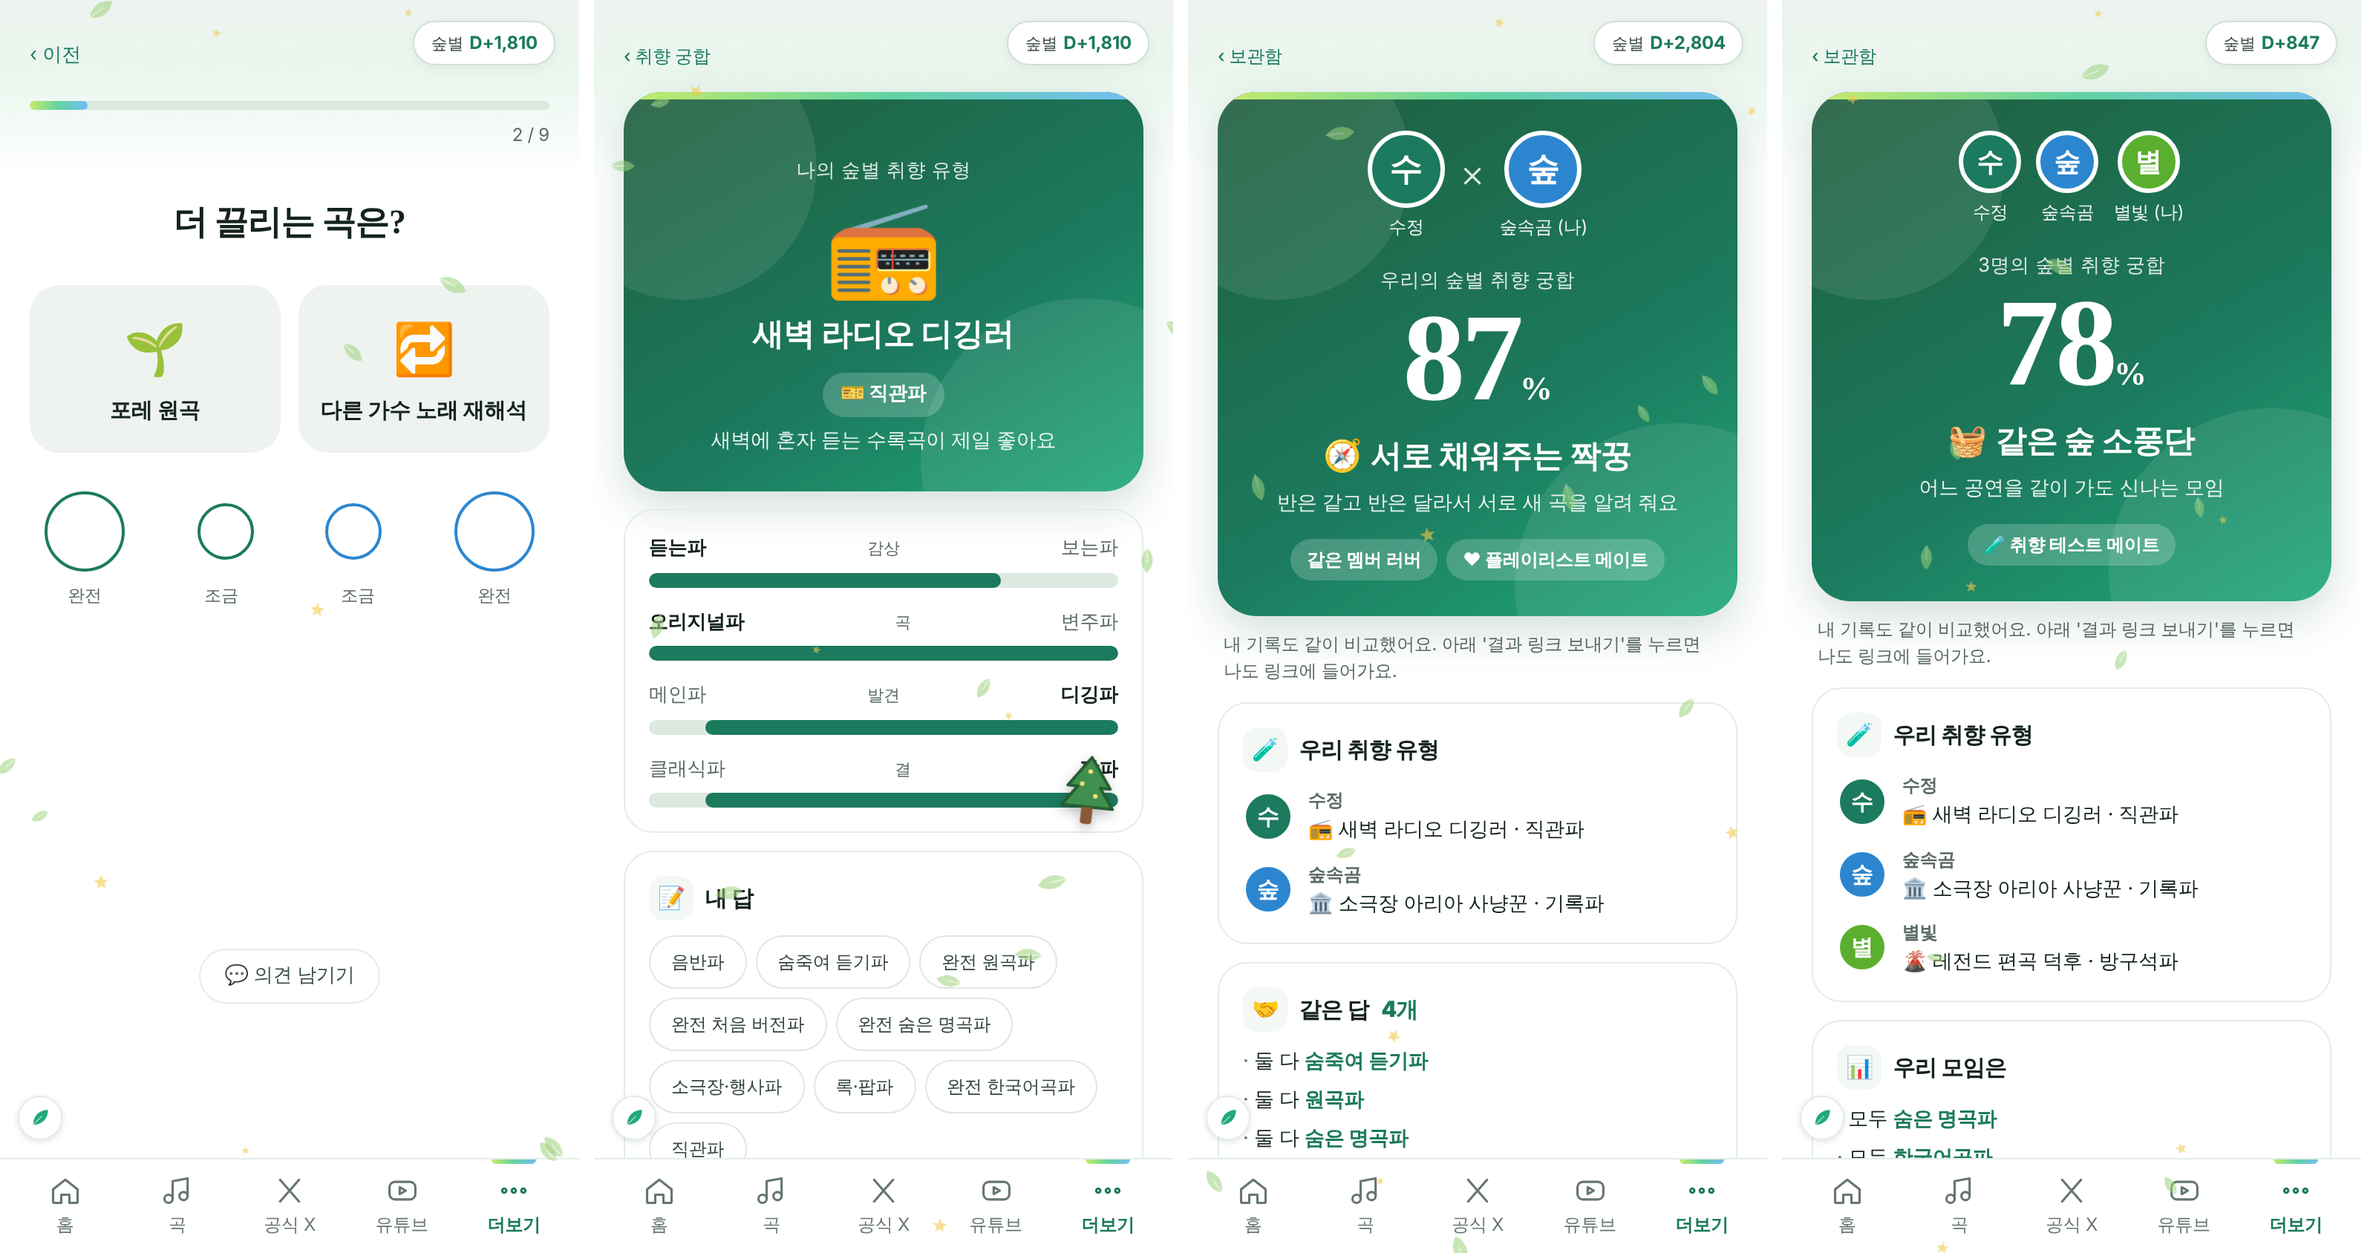
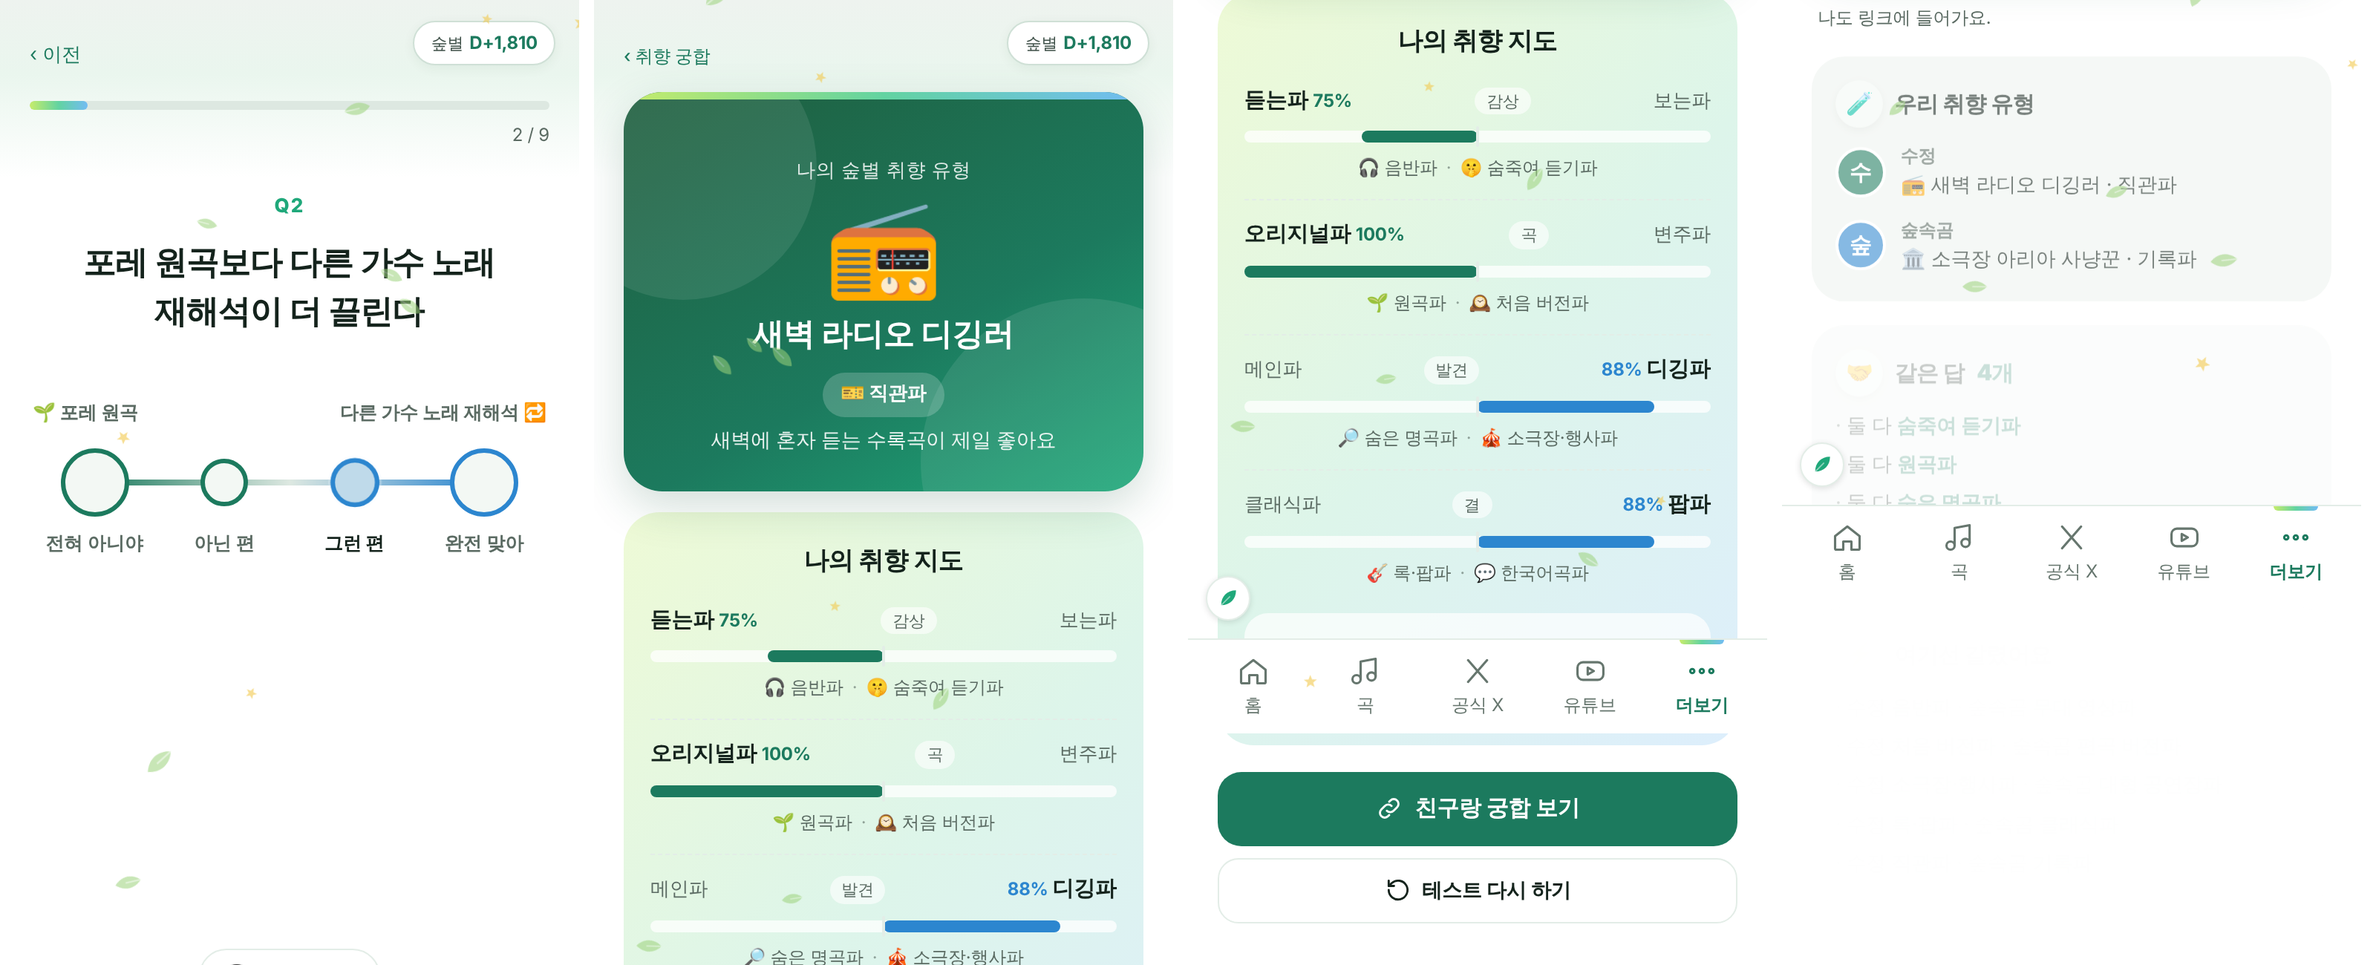
v592: 취향 테스트 질문을 문장+수직선 4칸으로, 결과 '나의 취향 지도'(가운데서 뻗는 막대+고른 답), 궁합 카드 부드럽게
Claude-Session: https://claude.ai/code/session_01MGTh9zKioiZsMkgnkSk7j5

diff --git a/style.css b/style.css
@@ -1977,12 +1977,12 @@ a.wt-yes { display: flex; align-items: center; text-decoration: none; }
 .mt-tags { display: flex; justify-content: center; flex-wrap: wrap; gap: 6px; margin-top: 14px; }
 .mt-tags span { font-size: 12px; font-weight: 600; padding: 5px 11px; border-radius: 99px; background: rgba(255, 255, 255, .2); }
 .mt-hint { font-size: 12px; color: var(--muted); margin: 10px 4px 0; line-height: 1.5; }
-.mt-card { margin-top: 12px; padding: 16px; border: 1px solid var(--line); border-radius: 20px; animation: mt-up .5s ease both; }
+.mt-card { margin-top: 12px; padding: 16px 16px 18px; border-radius: 22px; background: var(--tint-1); animation: mt-up .5s ease both; }
 .mt-card:nth-of-type(2) { animation-delay: .08s; } .mt-card:nth-of-type(3) { animation-delay: .16s; } .mt-card:nth-of-type(4) { animation-delay: .24s; } .mt-card:nth-of-type(n+5) { animation-delay: .32s; }
 @keyframes mt-up { from { opacity: 0; transform: translateY(12px); } to { opacity: 1; transform: none; } }
 @media (prefers-reduced-motion: reduce) { .mt-card, .mt-spark { animation: none; } }
 .mt-card h2 { display: flex; align-items: center; gap: 8px; font-size: 15px; font-weight: 700; margin: 0 0 10px; }
-.mt-card h2 span { display: inline-grid; place-items: center; width: 30px; height: 30px; border-radius: 10px; background: var(--soft); font-size: 15px; }
+.mt-card h2 span { display: inline-grid; place-items: center; width: 32px; height: 32px; border-radius: 50%; background: var(--soft); box-shadow: 0 2px 6px rgba(0,0,0,.06); font-size: 15px; }
 .mt-card h2 b { color: var(--green); }
 .mt-chips { display: flex; flex-wrap: wrap; gap: 6px; }
 .mt-chips small { color: var(--muted); margin-left: 4px; }
@@ -2015,20 +2015,6 @@ a.wt-yes { display: flex; align-items: center; text-decoration: none; }
 .ts-prog { height: 6px; border-radius: 99px; background: var(--tint-2); overflow: hidden; margin-top: 6px; }
 .ts-prog i { display: block; height: 100%; background: var(--grad); border-radius: 99px; transition: width .3s; }
 .ts-n { font-size: 12px; color: var(--muted); margin: 8px 0 0; text-align: right; }
-.ts-q { font-family: "Nanum Myeongjo", serif; font-size: 23px; font-weight: 800; text-align: center; margin: 34px 0 26px; line-height: 1.4; }
-.ts-pair { display: grid; grid-template-columns: 1fr 1fr; gap: 12px; }
-.ts-side { display: grid; justify-items: center; gap: 6px; padding: 18px 8px; border-radius: 20px; background: var(--tint-1); text-align: center; }
-.ts-side span { font-size: 34px; }
-.ts-side b { font-size: 14.5px; line-height: 1.35; }
-.ts-scale { display: flex; justify-content: space-between; align-items: center; margin: 26px 10px 0; }
-.ts-dot { border-radius: 50%; border: 2.5px solid var(--green); background: none; cursor: pointer; padding: 0; transition: transform .15s, background .15s; }
-.ts-d0, .ts-d3 { width: 54px; height: 54px; }
-.ts-d1, .ts-d2 { width: 38px; height: 38px; }
-.ts-d2, .ts-d3 { border-color: var(--h2c86cf, #2C86CF); }
-.ts-dot.on, .ts-dot:active { transform: scale(1.1); background: var(--green); }
-.ts-d2.on, .ts-d3.on, .ts-d2:active, .ts-d3:active { background: var(--h2c86cf, #2C86CF); }
-.ts-hint { display: flex; justify-content: space-between; margin: 8px 10px 0; font-size: 11.5px; color: var(--muted); }
-.ts-hint span { width: 54px; text-align: center; }
 .ts-3 { display: grid; gap: 10px; }
 .ts-opt { display: grid; grid-template-columns: 44px 1fr; grid-template-rows: auto auto; column-gap: 10px; text-align: left; padding: 14px 16px; border-radius: 18px; border: 1.5px solid var(--line); background: none; font: inherit; color: var(--ink); cursor: pointer; }
 .ts-opt span { grid-row: 1 / 3; font-size: 30px; align-self: center; }
@@ -2037,13 +2023,6 @@ a.wt-yes { display: flex; align-items: center; text-decoration: none; }
 .ts-opt.on, .ts-opt:active { border-color: var(--green); background: var(--tint-1); }
 .ts-big { font-size: 64px; margin: 6px 0 0; line-height: 1.1; }
 .ts-title { display: inline-block; margin: 10px 0 0; font-size: 13px; font-weight: 700; padding: 5px 12px; border-radius: 99px; background: rgba(255, 255, 255, .2); }
-.ts-axes { display: grid; gap: 14px; }
-.ts-ax p { display: flex; justify-content: space-between; align-items: baseline; margin: 0 0 6px; font-size: 13px; color: var(--muted); }
-.ts-ax p span.on { color: var(--ink); font-weight: 700; }
-.ts-ax p small { font-size: 11px; }
-.ts-axbar { position: relative; height: 10px; border-radius: 99px; background: var(--tint-2); overflow: hidden; }
-.ts-axbar i { position: absolute; top: 0; bottom: 0; border-radius: 99px; background: var(--green); }
-.ts-half { display: block; font-style: normal; font-size: 11.5px; color: var(--muted); margin-top: 4px; }
 .ts-who { list-style: none; padding: 0; margin: 0; display: grid; gap: 10px; }
 .ts-who li { display: flex; align-items: center; gap: 10px; font-size: 13.5px; }
 .ts-who span { display: grid; gap: 1px; }
@@ -2051,4 +2030,42 @@ a.wt-yes { display: flex; align-items: center; text-decoration: none; }
 .ts-lines { list-style: none; padding: 0; margin: 0; display: grid; gap: 6px; font-size: 13.5px; }
 .ts-lines li::before { content: '· '; color: var(--muted); }
 .ts-lines b { color: var(--green); }
-.ts-side + .ts-side { background: var(--heef6fe, #eef6fe); }
+.ts-num { text-align: center; margin: 30px 0 0; font-size: 13px; font-weight: 800; letter-spacing: .08em; color: var(--green-2); }
+.ts-q { font-family: "Nanum Myeongjo", serif; font-size: 22px; font-weight: 800; text-align: center; margin: 10px 8px 44px; line-height: 1.5; word-break: keep-all; }
+.ts-ends { display: flex; justify-content: space-between; font-size: 12.5px; font-weight: 600; color: var(--muted); margin: 0 2px 14px; }
+.ts-track { position: relative; display: grid; grid-template-columns: repeat(4, 1fr); }
+.ts-rail { position: absolute; left: 12.5%; right: 12.5%; top: 21px; height: 4px; border-radius: 99px; background: linear-gradient(90deg, var(--green), var(--tint-2) 50%, var(--h2c86cf)); }
+.ts-pt { position: relative; display: grid; justify-items: center; gap: 10px; padding: 0; border: 0; background: none; font: inherit; color: var(--muted); cursor: pointer; }
+.ts-pt i { display: block; border-radius: 50%; background: var(--soft); border: 3px solid var(--green); box-sizing: border-box; transition: transform .18s, background .18s, box-shadow .18s; }
+.ts-p0 i, .ts-p3 i { width: 46px; height: 46px; }
+.ts-p1 i, .ts-p2 i { width: 32px; height: 32px; margin-top: 7px; margin-bottom: 7px; }
+.ts-p2 i, .ts-p3 i { border-color: var(--h2c86cf); }
+.ts-pt span { font-size: 12.5px; font-weight: 600; }
+.ts-pt.on i, .ts-pt:active i { transform: scale(1.12); background: var(--green); box-shadow: 0 0 0 6px var(--tint-2); }
+.ts-p2.on i, .ts-p3.on i, .ts-p2:active i, .ts-p3:active i { background: var(--h2c86cf); box-shadow: 0 0 0 6px var(--heef6fe); }
+.ts-pt.on span { color: var(--ink); font-weight: 800; }
+.ts-sum { margin-top: 14px; padding: 20px 18px; border-radius: 24px; background: var(--grad-soft, var(--tint-1)); }
+.ts-sum-h { font-family: "Nanum Myeongjo", serif; font-size: 17px; font-weight: 800; margin: 0 0 16px; text-align: center; }
+.ts-ax { padding: 12px 0; border-top: 1px dashed var(--line); }
+.ts-ax:first-of-type { border-top: 0; padding-top: 0; }
+.ts-ax-top { display: flex; justify-content: space-between; align-items: baseline; font-size: 13px; color: var(--muted); }
+.ts-ax-top span.on { color: var(--ink); font-weight: 800; font-size: 14.5px; }
+.ts-ax-top small { font-size: 11px; padding: 1px 8px; border-radius: 99px; background: rgba(255, 255, 255, .6); }
+.ts-axbar { position: relative; height: 8px; margin: 10px 0 8px; border-radius: 99px; background: rgba(255, 255, 255, .75); }
+.ts-axbar::after { content: ''; position: absolute; left: 50%; top: -3px; bottom: -3px; width: 2px; margin-left: -1px; border-radius: 2px; background: var(--line); }
+.ts-axbar i { position: absolute; top: 0; bottom: 0; border-radius: 99px; }
+.ts-axbar i.l { right: 50%; background: var(--green); }
+.ts-axbar i.r { left: 50%; background: var(--h2c86cf); }
+.ts-axbar b { position: absolute; top: -22px; font-size: 11px; color: var(--green); transform: translateX(-50%); white-space: nowrap; }
+.ts-axbar b.l { transform: translateX(50%); }
+.ts-axbar b.r { color: var(--h2c86cf); }
+.half .ts-axbar b { left: 50% !important; right: auto !important; transform: translateX(-50%); color: var(--muted); }
+.ts-why { margin: 0; font-size: 12px; color: var(--muted); text-align: center; }
+.ts-why em { font-style: normal; margin: 0 6px; opacity: .6; }
+.ts-style { display: flex; align-items: center; gap: 12px; margin-top: 6px; padding: 12px 14px; border-radius: 16px; background: rgba(255, 255, 255, .7); }
+.ts-style > span { font-size: 30px; }
+.ts-style p { margin: 0; font-size: 12.5px; color: var(--muted); line-height: 1.5; }
+.ts-style small { display: block; font-size: 11px; }
+.ts-style b { color: var(--ink); font-size: 14.5px; margin-right: 4px; }
+.ts-ax-top em { font-style: normal; font-size: 12px; font-weight: 700; color: var(--green); }
+.ts-ax-top span:last-child em { color: var(--h2c86cf); }

diff --git a/app.js b/app.js
@@ -5114,16 +5114,17 @@
   // 축 4개 = 질문 둘씩 (강도를 더해서 정하고, 딱 반반이면 첫 질문으로 정한 뒤 '반반' 표시)
   const TS_KEY = 'sb-taste';
   const TS_Q = [
-    { ax: 0, q: '포레스텔라 곡, 주로 어떻게 즐겨요?', a: ['🎧', '음반으로 듣기'], b: ['📺', '무대 영상으로 보기'], p: ['음반파', '무대 영상파'] },
-    { ax: 0, q: '공연장에서 나는?', a: ['🤫', '숨죽여 듣기'], b: ['📣', '떼창'], p: ['숨죽여 듣기파', '떼창파'] },
-    { ax: 1, q: '더 끌리는 곡은?', a: ['🌱', '포레 원곡'], b: ['🔁', '다른 가수 노래 재해석'], p: ['원곡파', '커버파'] },
-    { ax: 1, q: '같은 곡이라면?', a: ['🕰', '처음 부른 버전'], b: ['✨', '새로 편곡한 버전'], p: ['처음 버전파', '편곡 버전파'] },
-    { ax: 2, q: '내 플레이리스트는?', a: ['🌟', '대놓고 유명곡'], b: ['🔎', '숨어 듣는 명곡'], p: ['유명곡파', '숨은 명곡파'] },
-    { ax: 2, q: '직접 보러 간다면?', a: ['🏟', '큰 공연장 콘서트'], b: ['🎪', '소극장·지역 행사'], p: ['대형 공연장파', '소극장·행사파'] },
-    { ax: 3, q: '마음이 가는 장르는?', a: ['🎻', '클래식 크로스오버'], b: ['🎸', '록·팝'], p: ['클래식파', '록·팝파'] },
-    { ax: 3, q: '자꾸 돌려 듣게 되는 건?', a: ['🌍', '외국어 곡'], b: ['💬', '한국어 곡'], p: ['외국곡파', '한국어곡파'] },
+    { ax: 0, q: '음반보다 무대 영상을 더 자주 찾아본다', a: ['🎧', '음반으로 듣기'], b: ['📺', '무대 영상으로 보기'], p: ['음반파', '무대 영상파'] },
+    { ax: 0, q: '공연장에선 따라 부르는 게 더 신난다', a: ['🤫', '숨죽여 듣기'], b: ['📣', '떼창'], p: ['숨죽여 듣기파', '떼창파'] },
+    { ax: 1, q: '포레 원곡보다 다른 가수 노래 재해석이 더 끌린다', a: ['🌱', '포레 원곡'], b: ['🔁', '다른 가수 노래 재해석'], p: ['원곡파', '커버파'] },
+    { ax: 1, q: '같은 곡이면 새로 편곡한 버전이 더 좋다', a: ['🕰', '처음 부른 버전'], b: ['✨', '새로 편곡한 버전'], p: ['처음 버전파', '편곡 버전파'] },
+    { ax: 2, q: '남들은 잘 모르는 숨은 명곡을 더 아낀다', a: ['🌟', '대놓고 유명곡'], b: ['🔎', '숨어 듣는 명곡'], p: ['유명곡파', '숨은 명곡파'] },
+    { ax: 2, q: '큰 공연장보다 소극장·지역 행사가 더 좋다', a: ['🏟', '큰 공연장 콘서트'], b: ['🎪', '소극장·지역 행사'], p: ['대형 공연장파', '소극장·행사파'] },
+    { ax: 3, q: '클래식보다 록·팝 편곡에 더 신난다', a: ['🎻', '클래식 크로스오버'], b: ['🎸', '록·팝'], p: ['클래식파', '록·팝파'] },
+    { ax: 3, q: '외국어 곡보다 한국어 곡을 더 자주 듣는다', a: ['🌍', '외국어 곡'], b: ['💬', '한국어 곡'], p: ['외국곡파', '한국어곡파'] },
   ];
   const TS_STYLE = { q: '나의 덕질 스타일은?', o: [['🎫', '직관파', '공연은 직접 봐야지'], ['📒', '기록파', '날짜·셋리 정리가 행복해'], ['🛋', '방구석파', '영상으로 충분해']] };
+  const TS_ANS = ['전혀 아니야', '아닌 편', '그런 편', '완전 맞아'];
   const TS_ORDER = [0, 2, 4, 6, 1, 3, 5, 7, 8];  // 축이 섞여 나오게
   const TS_AX = [['듣는파', '보는파'], ['오리지널파', '변주파'], ['메인파', '디깅파'], ['클래식파', '팝파']];
   const TS_AXN = ['감상', '곡', '발견', '결'];
@@ -5165,10 +5166,11 @@
     const bar = `<div class="ts-prog"><i style="width:${Math.round(n / tot * 100)}%"></i></div><p class="ts-n">${n + 1} / ${tot}</p>`;
     if (qi === 8) return `${bar}<h2 class="ts-q">${TS_STYLE.q}</h2><div class="ts-3">${TS_STYLE.o.map(([ic, t, s], k) => `<button type="button" class="ts-opt${tsSt.a[8] === k ? ' on' : ''}" data-v="${k}"><span>${ic}</span><b>${t}</b><small>${s}</small></button>`).join('')}</div>`;
     const Q = TS_Q[qi], cur = tsSt.a[qi];
-    return `${bar}<h2 class="ts-q">${Q.q}</h2>
-      <div class="ts-pair"><div class="ts-side"><span>${Q.a[0]}</span><b>${Q.a[1]}</b></div><div class="ts-side"><span>${Q.b[0]}</span><b>${Q.b[1]}</b></div></div>
-      <div class="ts-scale">${[0, 1, 2, 3].map(v => `<button type="button" class="ts-dot ts-d${v}${cur === v ? ' on' : ''}" data-v="${v}" aria-label="${['완전 ', '조금 ', '조금 ', '완전 '][v] + (v < 2 ? Q.a[1] : Q.b[1])}"></button>`).join('')}</div>
-      <div class="ts-hint"><span>완전</span><span>조금</span><span>조금</span><span>완전</span></div>`;
+    return `${bar}<p class="ts-num">Q${n + 1}</p><h2 class="ts-q">${Q.q}</h2>
+      <div class="ts-line${cur != null ? ' picked' : ''}">
+        <div class="ts-ends"><span>${Q.a[0]} ${Q.a[1]}</span><span>${Q.b[1]} ${Q.b[0]}</span></div>
+        <div class="ts-track"><i class="ts-rail"></i>${TS_ANS.map((l, v) => `<button type="button" class="ts-pt ts-p${v}${cur === v ? ' on' : ''}" data-v="${v}"><i></i><span>${l}</span></button>`).join('')}</div>
+      </div>`;
   }
   function tsResultHtml(t) {
     const T = tsType(t), S = tsStyle(t), X = tsAxes(t);
@@ -5179,12 +5181,16 @@
         <p class="ts-title">${S[0]} ${S[1]}</p>
         <p class="mt-say">${T[2]}</p>
       </div>
-      <section class="mt-card ts-axes">${X.map((x, k) => `
-        <div class="ts-ax"><p><span class="${x.b ? '' : 'on'}">${TS_AX[k][0]}</span><small>${TS_AXN[k]}</small><span class="${x.b ? 'on' : ''}">${TS_AX[k][1]}</span></p>
-          <div class="ts-axbar"><i style="${x.b ? 'right' : 'left'}:0;width:${x.pct}%"></i></div>
-          ${x.half ? `<em class="ts-half">⚖ 반반 · ${TS_AX[k][1 - x.b]} 기질도 있어요</em>` : ''}</div>`).join('')}
-      </section>
-      <section class="mt-card"><h2><span>📝</span>내 답</h2><div class="mt-chips">${TS_Q.map((q, i) => `<span class="chip">${['완전 ', '', '', '완전 '][+t[i]]}${q.p[+t[i] < 2 ? 0 : 1]}</span>`).join('')}<span class="chip">${S[1]}</span></div></section>`;
+      <section class="ts-sum">
+        <h2 class="ts-sum-h">나의 취향 지도</h2>
+        ${X.map((x, k) => { const qs = TS_Q.map((q, i) => [q, i]).filter(([q]) => q.ax === k); const w = x.b ? 1 : 0; return `
+        <div class="ts-ax${x.half ? ' half' : ''}">
+          <div class="ts-ax-top"><span class="${w ? '' : 'on'}">${TS_AX[k][0]}${w ? '' : ` <em>${x.half ? '⚖' : x.pct + '%'}</em>`}</span><small>${TS_AXN[k]}</small><span class="${w ? 'on' : ''}">${w ? `<em>${x.half ? '⚖' : x.pct + '%'}</em> ` : ''}${TS_AX[k][1]}</span></div>
+          <div class="ts-axbar"><i class="${w ? 'r' : 'l'}" style="width:${x.pct - 50}%"></i></div>
+          <p class="ts-why">${qs.map(([q, i]) => `${(+t[i] < 2 ? q.a : q.b)[0]} ${q.p[+t[i] < 2 ? 0 : 1]}`).join('<em>·</em>')}${x.half ? `<em>·</em>반반이라 첫 답으로 정했어요` : ''}</p>
+        </div>`; }).join('')}
+        <div class="ts-style"><span>${S[0]}</span><p><small>덕질 스타일</small><b>${S[1]}</b> ${S[2]}</p></div>
+      </section>`;
   }
   function tsBind() {
     const box = document.getElementById('ts-quiz'); if (!box) return;

diff --git a/index.html b/index.html
@@ -23,7 +23,7 @@
 <link href="https://fonts.googleapis.com/css2?family=Gowun+Batang:wght@400;700&display=swap" rel="stylesheet">
 <link rel="stylesheet" href="https://cdn.jsdelivr.net/gh/orioncactus/pretendard@v1.3.9/dist/web/variable/pretendardvariable-dynamic-subset.min.css">
 <script>try{var d=JSON.parse(localStorage.getItem('sb-deco')||'{}');if(d.t)document.documentElement.dataset.theme=d.t;if(d.f)document.documentElement.dataset.fs=d.f}catch(e){}</script>
-<link rel="stylesheet" href="style.css?v=591">
+<link rel="stylesheet" href="style.css?v=592">
 </head>
 <body>
 <div class="app">
@@ -46,9 +46,9 @@
 <!-- 방문자 수 (GoatCounter: 쿠키·개인정보 없이 화면별 방문 수만 세요) -->
 <script data-goatcounter="https://soopbyeol.goatcounter.com/count" data-goatcounter-settings='{"no_onload": true}' async src="https://gc.zgo.at/count.js"></script>
 <script src="lib/fuse.min.js"></script>
-<script src="i18n.js?v=591"></script>
-<script src="config.js?v=591"></script>
-<script src="data.js?v=591"></script>
-<script src="app.js?v=591"></script>
+<script src="i18n.js?v=592"></script>
+<script src="config.js?v=592"></script>
+<script src="data.js?v=592"></script>
+<script src="app.js?v=592"></script>
 </body>
 </html>

diff --git a/sw.js b/sw.js
@@ -1,6 +1,6 @@
 // 한 번 연 화면 파일을 저장해 두고, 다음부터 빨리 열거나 인터넷이 없을 때 써요.
 // 시트 데이터는 data.js가 따로 저장하니까 여기서는 사이트 파일만 다뤄요.
-const CACHE = 'soopbyeol-v591';
+const CACHE = 'soopbyeol-v592';
 const SHELL = ['./', 'index.html', 'style.css?v=162', 'config.js?v=162', 'data.js?v=162', 'app.js?v=162', 'lib/fuse.min.js', 'manifest.webmanifest', 'icons/icon-192.png'];
 
 self.addEventListener('install', ev => {
